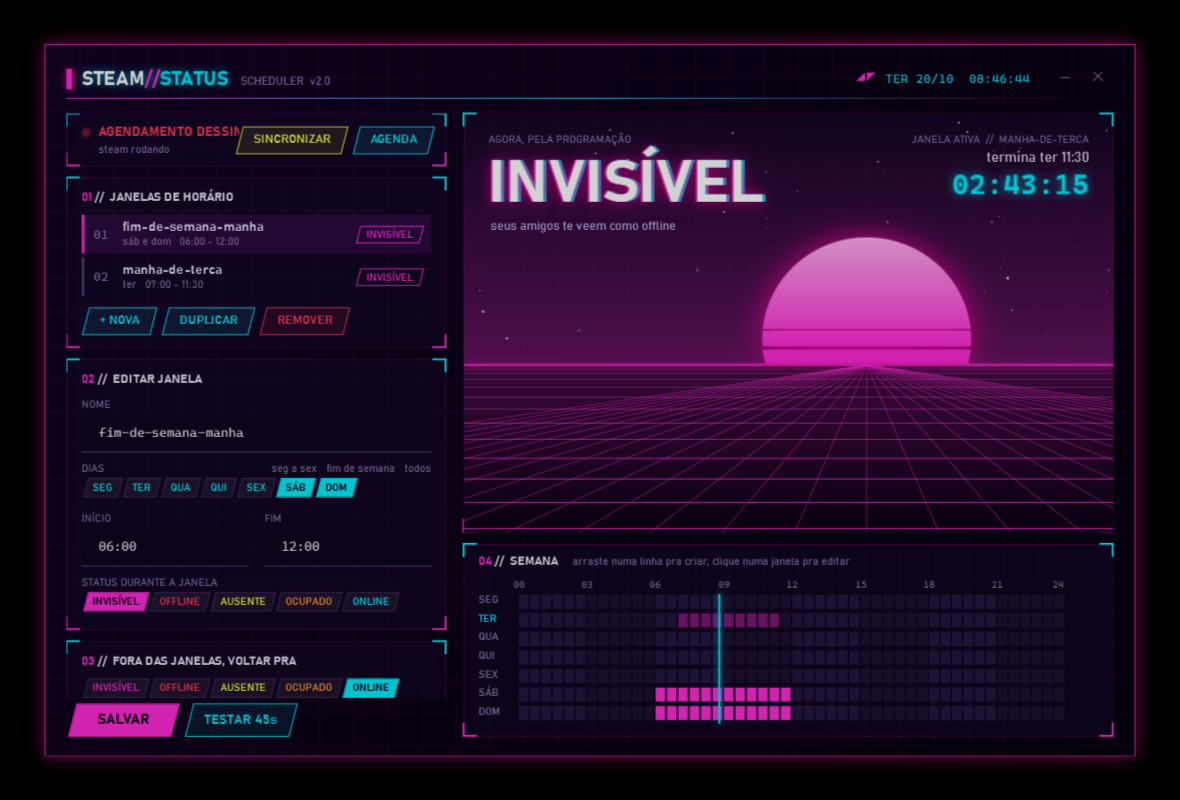
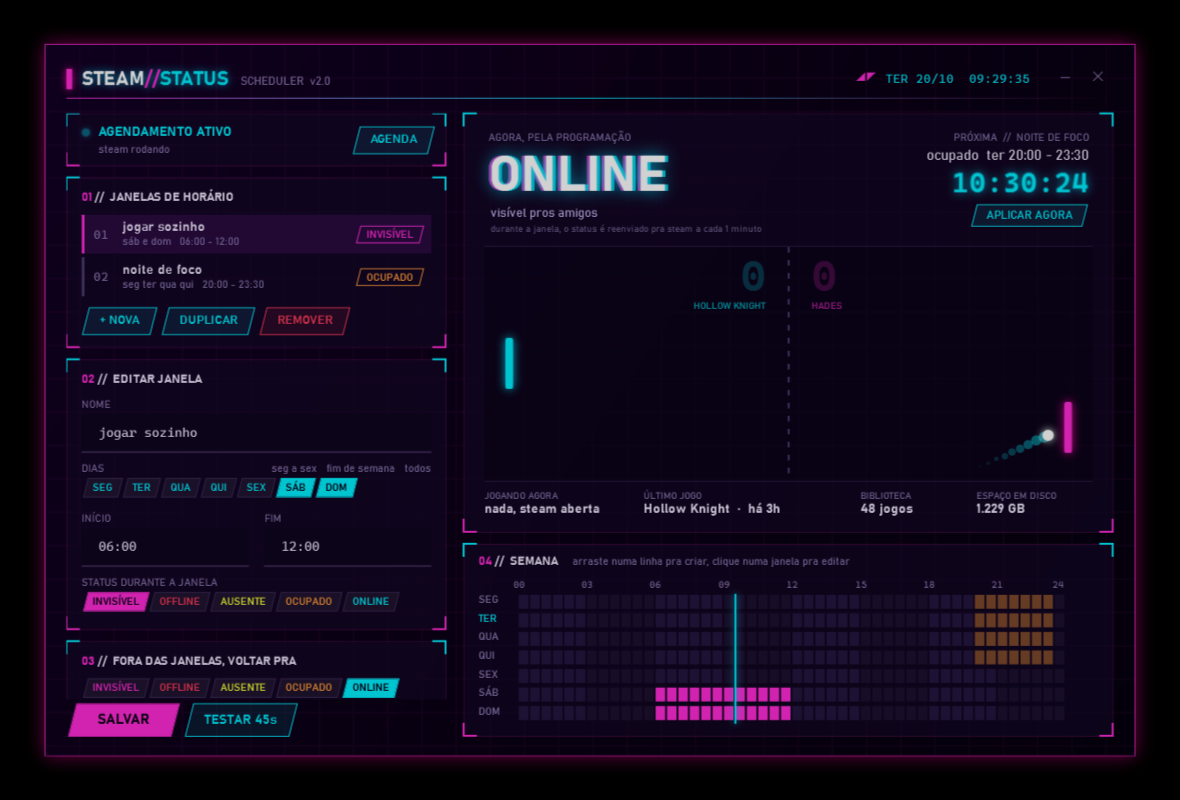
docs: friendlier README with one-line install at the top
Rewrite the README around the current task-based design: one-line
install first (download ZIP, extract, run Instalar.bat; no remote code
piped into iex), ZIP fallback, 4-step usage, status table, quick FAQ and a
short how-it-works. New screenshot uses Configurar.ps1 -Demo, a sample
schedule and library, so no personal data is published.

Claude-Session: https://claude.ai/code/session_017YyRU7d5CA4SkSME3GBJHu

diff --git a/README.md b/README.md
@@ -1,65 +1,94 @@
 # Steam Status Scheduler
 
-Deixa sua Steam **invisível (ou offline, ausente...) automaticamente em horários programados** e volta pra online sozinho depois.
+**Fique invisível na Steam nos horários que você escolher, automaticamente.**
 
-Exemplo que vem configurado: sábado e domingo, das 06:00 às 12:00, você aparece offline pros amigos. Às 12:00 volta pra online. Ideal pra quem gosta de jogar sozinho em certos horários sem ter que lembrar de trocar o status.
+Joga sozinho sábado de manhã? Não quer convite durante o trabalho? Marca o horário uma vez e esquece: a Steam troca de status sozinha e volta pra online quando o horário acaba.
 
-Funciona no Windows 10 e 11. Não precisa instalar nada além da própria Steam e não deixa nenhum programa rodando em segundo plano.
+## Instalar (1 linha)
 
-## Instalar
+Abra o **PowerShell** (tecla Windows, digite `powershell`, Enter), cole a linha abaixo e aperte Enter:
 
-1. Baixe o projeto: botão verde **Code** > **Download ZIP** (ou [clique aqui](https://github.com/IvanPJ/steam-status-scheduler/archive/refs/heads/main.zip)).
-2. Extraia o ZIP em qualquer pasta.
-3. Dê duplo clique em **`Instalar.bat`**.
+```powershell
+iwr https://github.com/IvanPJ/steam-status-scheduler/archive/refs/heads/main.zip -OutFile $env:TEMP\sss.zip; Expand-Archive $env:TEMP\sss.zip $env:TEMP\sss -Force; & "$env:TEMP\sss\steam-status-scheduler-main\Instalar.bat"
+```
 
-Se o Windows mostrar a tela azul "O Windows protegeu o computador", clique em **Mais informações** > **Executar assim mesmo**. Isso aparece porque o arquivo veio da internet, é normal.
+Pronto. A janela de configuração abre sozinha no final.
 
-Ele copia os arquivos pra `%LOCALAPPDATA%\SteamStatusScheduler`, cria as tarefas no Agendador de Tarefas do Windows, cria o atalho **Steam Status Scheduler** no Menu Iniciar e abre a janela de configuração. Não baixa nada da internet e não precisa de administrador.
+<details>
+<summary>Prefere sem comando? Instale pelo ZIP</summary>
 
-## Configurar
+1. [Baixe o ZIP](https://github.com/IvanPJ/steam-status-scheduler/archive/refs/heads/main.zip) e extraia em qualquer pasta.
+2. Dê duplo clique em **`Instalar.bat`**.
+3. Se aparecer a tela azul "O Windows protegeu o computador", clique em **Mais informações** e depois em **Executar assim mesmo**. Isso aparece porque o arquivo veio da internet.
 
-Tecla Windows, digite **Steam Status Scheduler**, Enter. Abre uma janela nativa do Windows, sem navegador e sem instalar nada:
+</details>
+
+Funciona no Windows 10 e 11. Não precisa de administrador nem de nenhum outro programa além da Steam.
 
 ![Steam Status Scheduler](docs/screenshot.png)
 
-- **Semana**: arraste numa linha pra criar uma janela naquele dia e horário. Clique numa janela pintada pra editar. A linha ciano marca o momento atual.
-- **Janelas de horário**: `+ NOVA`, `DUPLICAR`, `REMOVER`.
-- **Editar janela**: nome, dias (com atalhos seg a sex, fim de semana, todos), início e fim em `HH:mm` e o status durante a janela.
-- **Fora das janelas**: pra onde voltar quando a janela termina, normalmente `ONLINE`.
-- O painel grande mostra o status que a programação manda agora, a próxima janela e a contagem regressiva.
-- Embaixo, dois bots jogam Pong neon sozinhos, batizados com os dois jogos que você jogou por último. As cores seguem o seu status.
-- A faixa de baixo mostra o jogo rodando agora, o último jogo, quantos jogos tem na biblioteca e quanto espaço eles ocupam. Tudo vem só dos manifestos da biblioteca de jogos; nenhum dado de conta ou login da Steam é lido.
-- **SALVAR** grava o config e recria as tarefas do Windows na hora.
-- **TESTAR 45s** deixa você invisível por 45 segundos e volta pra online.
-- **AGENDA** mostra as tarefas criadas, com a próxima e a última execução.
+## Usar
 
-Status disponíveis:
+Abra pelo Menu Iniciar: tecla Windows, digite **Steam Status Scheduler**, Enter.
 
-- `INVISÍVEL`: aparece offline pros amigos, mas você ainda vê a lista e recebe mensagens. **É o recomendado.**
-- `OFFLINE`: modo "Ficar offline" da Steam, desconecta do chat de amigos.
-- `AUSENTE`, `OCUPADO`, `ONLINE` também valem.
+1. **Arraste** numa linha da grade da semana pra criar um horário. Ou clique em `+ NOVA`.
+2. Ajuste o **nome**, os **dias** e o **início e fim**.
+3. Escolha o **status** durante o horário.
+4. Clique em **SALVAR**. Pode fechar a janela.
+
+| Status | O que seus amigos veem |
+|---|---|
+| **INVISÍVEL** | Você aparece offline, mas continua vendo a lista e recebendo mensagens. É o mais usado. |
+| **OFFLINE** | Você sai do chat de amigos de verdade. |
+| **AUSENTE** / **OCUPADO** | Você aparece online com esse aviso. |
+| **ONLINE** | Normal. |
+
+Em **Fora das janelas, voltar pra** você escolhe o status de quando o horário acaba. Normalmente é ONLINE.
+
+## Perguntas rápidas
+
+**Precisa deixar alguma coisa aberta?**
+Não. Quem dispara é o Agendador de Tarefas do próprio Windows. A janela de configuração pode ficar fechada e continua valendo depois de reiniciar o PC. Só a Steam precisa estar aberta.
+
+**Se eu ficar online na mão durante o horário?**
+Em até 1 minuto ele volta pro status do horário. Fora dos horários nada é forçado.
+
+**E se a Steam estiver fechada?**
+Durante um horário, ela abre minimizada na bandeja já com o status certo.
+
+**E se o PC estiver desligado no horário?**
+Assim que ligar, o status do horário é aplicado.
+
+**Acabei de criar um horário que já começou.**
+Ao salvar, o status já é aplicado. Também tem o botão **APLICAR AGORA**.
+
+**Como atualizo?**
+Rode a linha de instalação de novo. Seus horários são mantidos.
+
+**Como desinstalo?**
+Abra a pasta `%LOCALAPPDATA%\SteamStatusScheduler` (cole isso na barra do Explorer) e dê duplo clique em `Desinstalar.bat`. Ele remove tudo e te deixa online.
+
+**Meu antivírus reclamou.**
+Não fica nenhum programa rodando escondido: são só tarefas do Windows chamando a própria Steam. O código é aberto, dá pra ler cada arquivo. Se mesmo assim bloquear, adicione a pasta `%LOCALAPPDATA%\SteamStatusScheduler` às exceções e instale de novo.
 
 ## Como funciona
 
-Não fica nenhum programa rodando em segundo plano. Cada janela vira duas tarefas na pasta `SteamStatusScheduler` do Agendador de Tarefas do Windows:
+Cada horário vira duas tarefas na pasta `SteamStatusScheduler` do Agendador de Tarefas do Windows:
 
-- no início, a tarefa roda `steam.exe -silent steam://friends/status/invisible` (ou o status escolhido) e repete a cada 1 minuto até o fim da janela;
-- no fim, roda o mesmo comando com o status de "fora das janelas".
+- **início**: roda `steam.exe -silent steam://friends/status/invisible` (ou o status escolhido) e repete a cada 1 minuto até o fim do horário;
+- **fim**: roda o mesmo comando com o status de "fora das janelas".
 
-Quem executa é o próprio Windows, e quem troca o status é a própria Steam. Detalhes:
+1 minuto é o menor intervalo do Agendador do Windows. Um intervalo menor exigiria um programa sempre rodando em segundo plano.
 
-- Se o PC estava desligado no horário, a tarefa roda assim que ele ligar.
-- Se a Steam estiver fechada durante uma janela, ela é aberta minimizada na bandeja já com o status certo.
-- Durante a janela o status é reenviado a cada minuto. Se você ficar online na mão, ou a Steam reiniciar, em até 1 minuto volta pro status da janela. Fora das janelas nada é forçado.
-- 1 minuto é o menor intervalo do Agendador do Windows. Um intervalo menor exigiria um programa rodando em segundo plano, que é justamente o que antivírus barram.
-- Se você salvar uma janela que já começou, o status dela é aplicado na hora. O botão **APLICAR AGORA** faz o mesmo quando quiser.
-- Cada janela começa e termina no mesmo dia, de 00:00 até 23:59.
+A tela de configuração é uma janela nativa do Windows feita em PowerShell + WPF. O Pong e a faixa de informações usam só os manifestos da sua biblioteca de jogos (nome, tamanho e última vez jogado). Nenhum dado de conta ou login da Steam é lido.
 
-**Antivírus:** não tem script escondido nem processo em segundo plano, só tarefas do Windows chamando a Steam. O PowerShell só roda quando você abre a janela de configuração ou o instalador. Tudo é script aberto, dá pra ler cada arquivo.
-
-## Desinstalar
-
-`Desinstalar.bat` na pasta de instalação (`%LOCALAPPDATA%\SteamStatusScheduler`). Remove as tarefas, o atalho do Menu Iniciar e a pasta, e volta pra online.
+| Arquivo | Pra quê |
+|---|---|
+| `Instalar.bat` / `install.ps1` | Copia pra `%LOCALAPPDATA%\SteamStatusScheduler`, cria as tarefas e o atalho |
+| `Configurar.ps1` | A janela de configuração |
+| `Tarefas.ps1` | Transforma o `config.json` em tarefas do Windows |
+| `config.json` | Seus horários |
+| `Desinstalar.bat` / `uninstall.ps1` | Remove tudo |
 
 ## Licença
 
